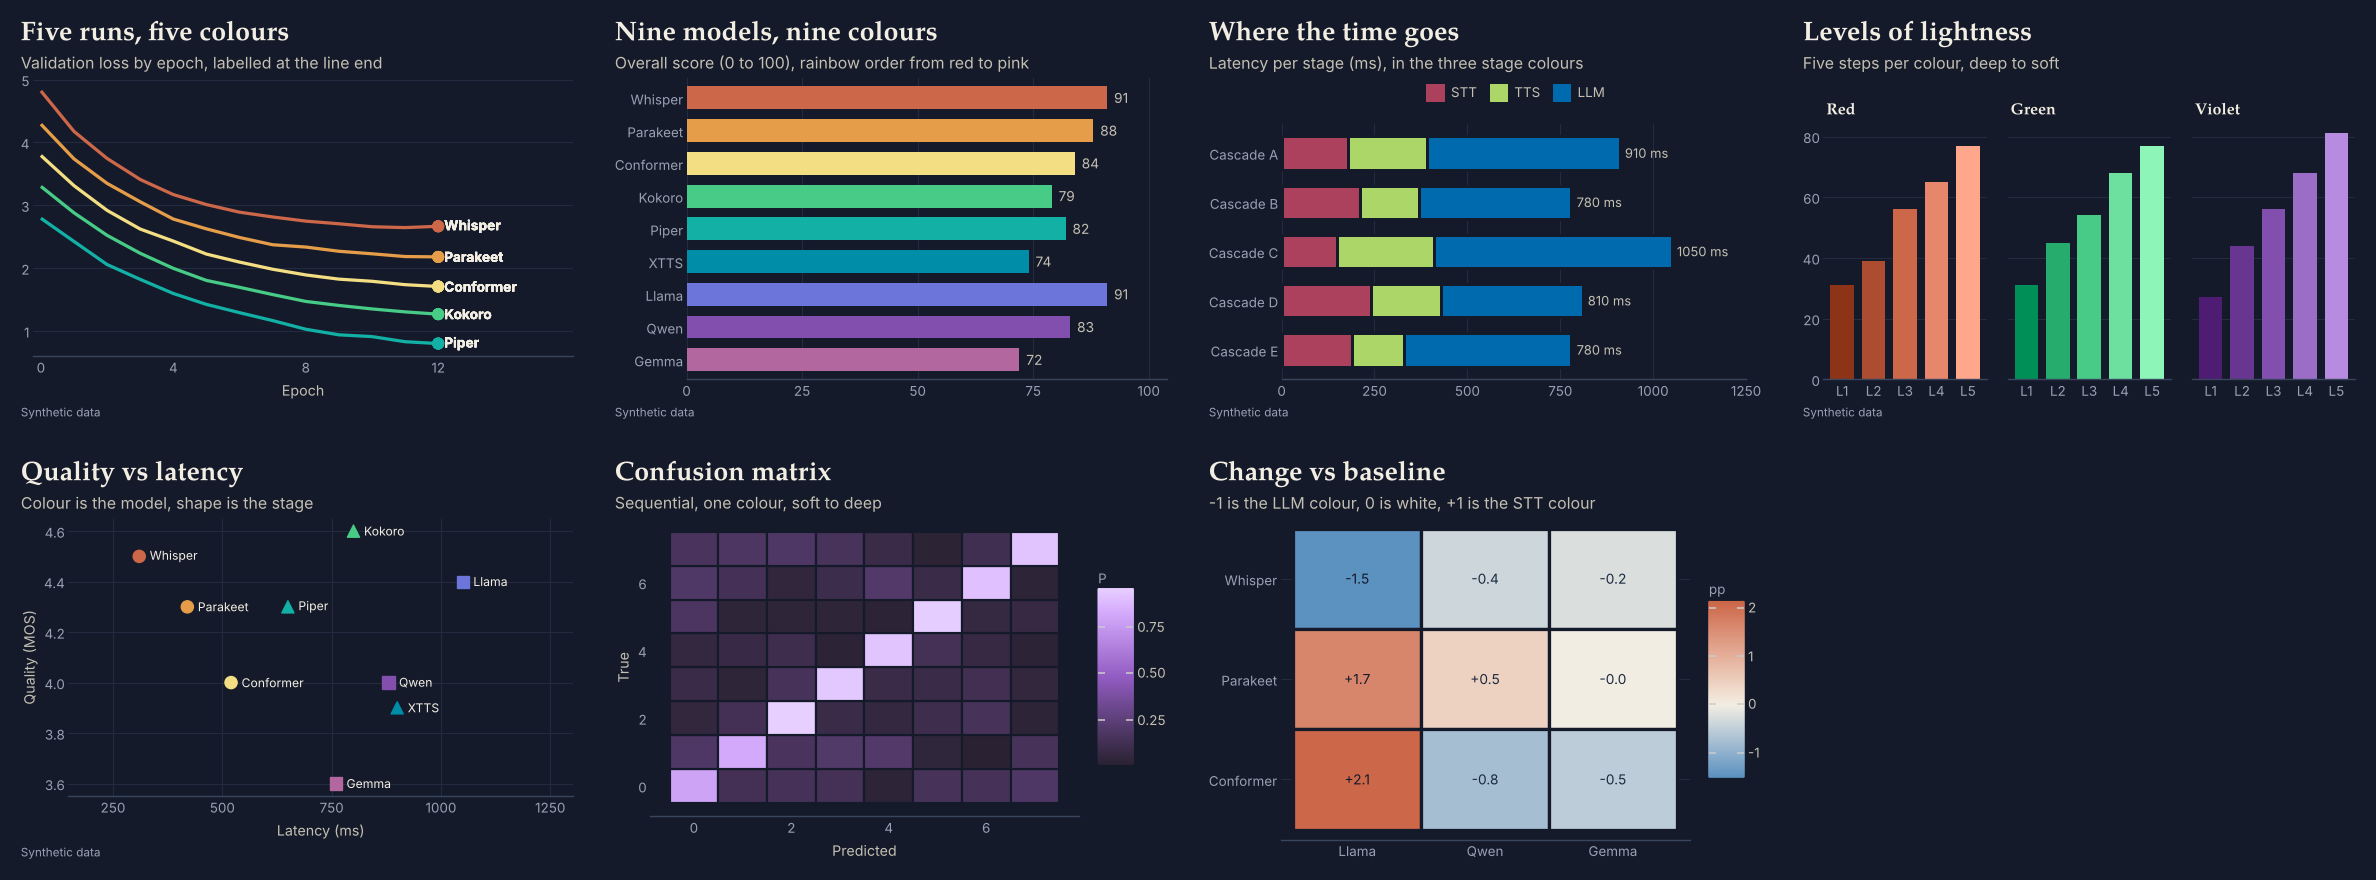
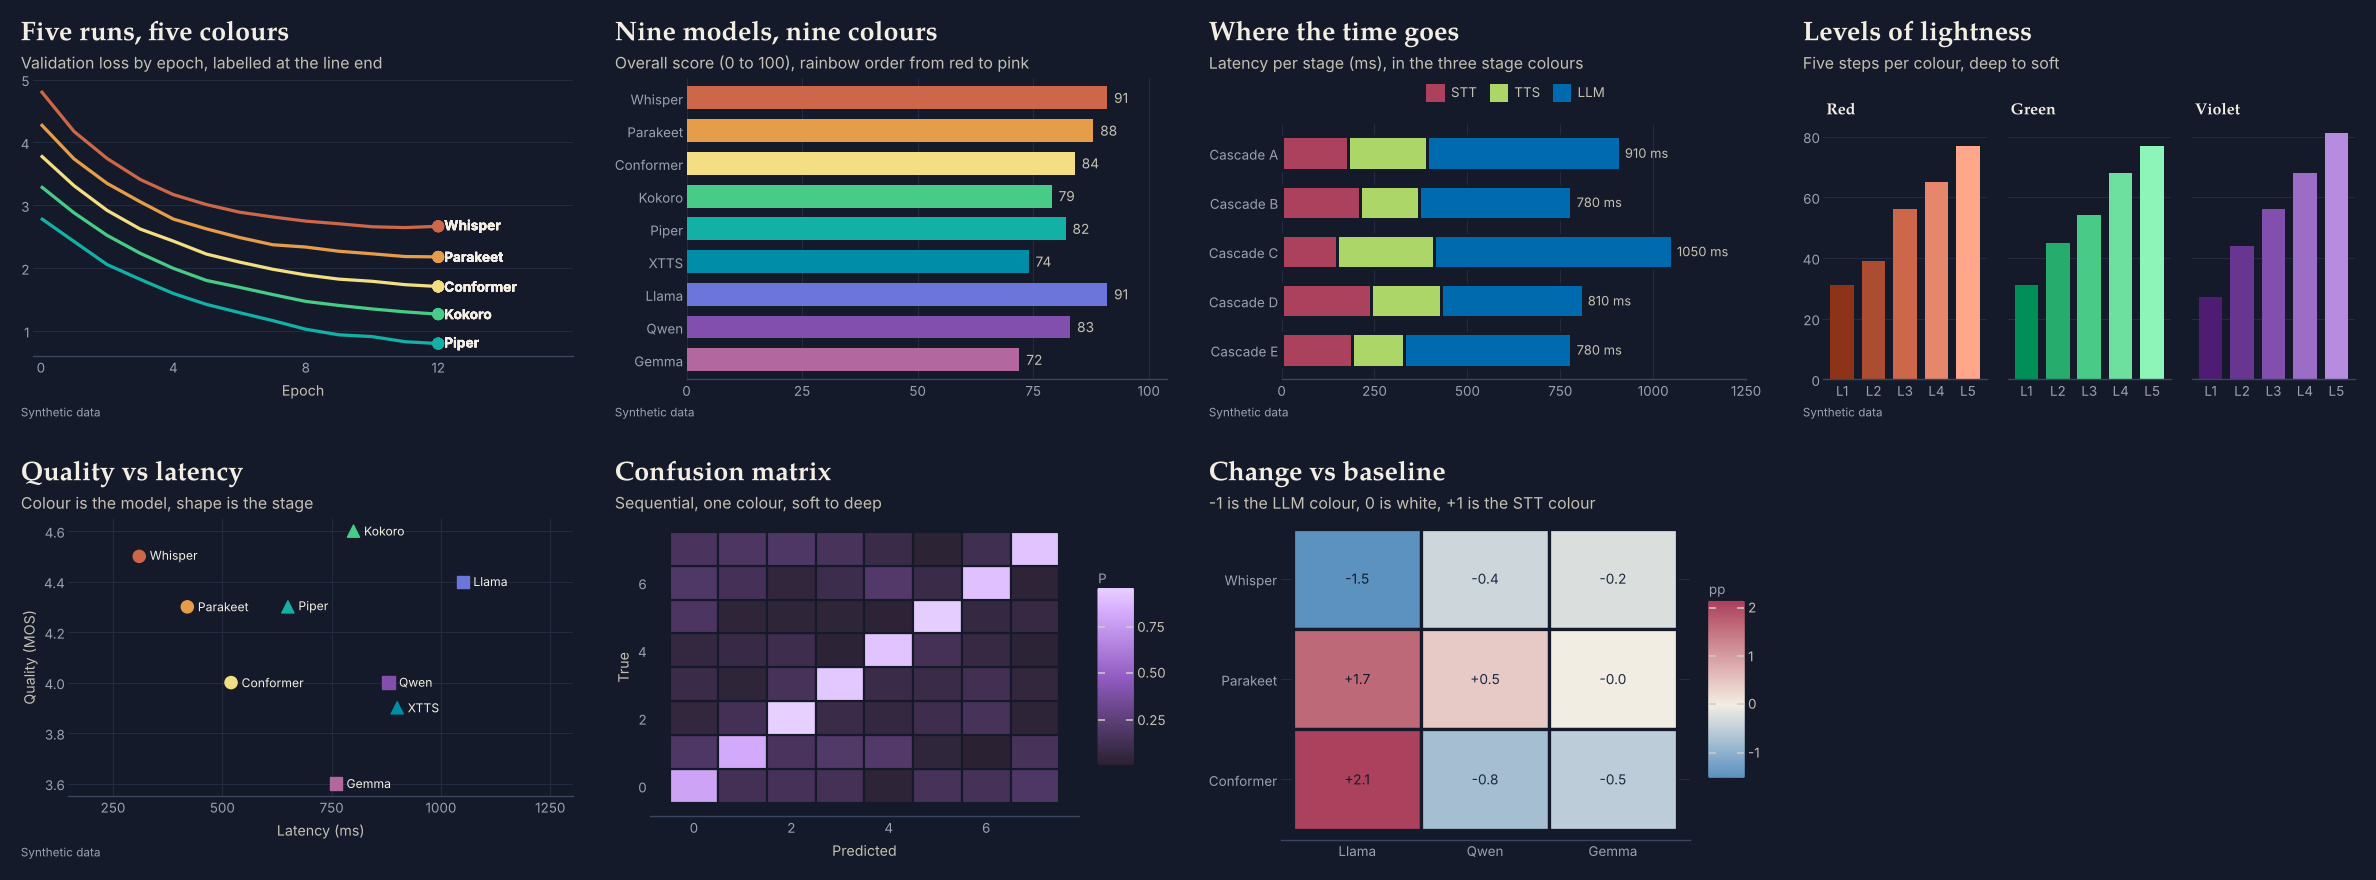
Add README example charts, fix diverging hot end to STT colour

Changed region(s): [[0.5295, 0.7057, 0.6229, 0.9511], [0.7163, 0.675, 0.7475, 0.7364]]

diff --git a/examples/readme_figs.py b/examples/readme_figs.py
@@ -1,0 +1,63 @@
+"""Small example figures for the README, in light and dark. python examples/readme_figs.py [outdir]"""
+import sys
+from pathlib import Path
+
+import numpy as np
+import pandas as pd
+from plotnine import *  # noqa: F401,F403
+from PIL import Image
+
+sys.path.insert(0, str(Path(__file__).resolve().parent))
+sys.argv = [sys.argv[0], "/tmp/_mega_unused"]  # mega.py reads argv for its own output folder
+import mega  # noqa: E402
+import roygbviz as rv  # noqa: E402
+
+out = Path(__file__).resolve().parent.parent / "assets" / "examples"
+out.mkdir(parents=True, exist_ok=True)
+W, H, DPI = 5.6, 3.5, 160
+
+
+def levels_fig():
+    names = ["STT", "teal", "violet"]
+    d = pd.DataFrame([(n, k, 1) for n in names for k in range(5)], columns=["colour", "level", "v"])
+    d["colour"] = pd.Categorical(d["colour"], names[::-1])
+    d["cell"] = d["colour"].astype(str) + d["level"].astype(str)
+    cols = {f"{n}{k}": c for n in names for k, c in enumerate(rv.levels(n, 5))}
+    return (ggplot(d, aes("level", "colour", fill="cell")) + geom_tile(colour=mega.S["N"]["bg"], size=3)
+            + scale_fill_manual(values=cols) + mega.noleg()
+            + scale_x_continuous(breaks=range(5), labels=["deep", "", "default", "", "soft"], expand=(0, 0))
+            + theme(panel_grid_major=element_blank(), axis_ticks=element_blank())
+            + labs(title="Levels", subtitle="Five steps per colour, default in the middle", x="", y=""))
+
+
+def div_fig():
+    rng = np.random.default_rng(5)
+    a = rng.normal(0, 1, (6, 6)); m = np.clip(np.round((a + a.T) / 2, 1), -1, 1); np.fill_diagonal(m, 1)
+    names = ["Whisper", "Parakeet", "Kokoro", "Piper", "Llama", "Qwen"]
+    d = pd.DataFrame([(names[i], names[j], m[i, j]) for i in range(6) for j in range(6)], columns=["x", "y", "v"])
+    d["x"] = pd.Categorical(d["x"], names); d["y"] = pd.Categorical(d["y"], names[::-1])
+    return (ggplot(d, aes("x", "y", fill="v")) + geom_tile(colour=mega.S["N"]["bg"], size=2)
+            + rv.scale_fill_roygbviz_div(limits=(-1, 1)) + theme(panel_grid_major=element_blank(), axis_text_x=element_text(rotation=35, ha="right"))
+            + labs(title="Diverging", subtitle="Cold (LLM colour), white, hot (STT colour)", x="", y="", fill=""))
+
+
+FIGS = {
+    "quickstart": mega.line, "stages": mega.stacked, "levels": levels_fig, "diverging": div_fig,
+    "shading": mega.st_density, "boxes": mega.st_box,
+}
+
+for mode in ("light", "dark"):
+    mega.S["P"] = rv.use(mode); mega.S["N"] = mega.S["P"].neutrals
+    for name, fn in FIGS.items():
+        fn().save(out / f"{name}_{mode}.png", width=W, height=H, dpi=DPI, verbose=False)
+    # sizes: two base sizes side by side
+    ims = []
+    for bs in (9, 14):
+        rv.use(mode, base_size=bs)
+        g = mega._base(f"Base size {bs}", "Text and strokes scale together", base_size=bs)
+        f = out / f"_s{bs}.png"; g.save(f, width=W / 1.3, height=H / 1.3, dpi=DPI, verbose=False); ims.append(Image.open(f))
+        f.unlink()
+    sheet = Image.new("RGB", (ims[0].width + ims[1].width, max(i.height for i in ims)), mega.S["N"]["bg"])
+    sheet.paste(ims[0], (0, 0)); sheet.paste(ims[1], (ims[0].width, 0)); sheet.save(out / f"sizes_{mode}.png")
+    rv.use(mode)
+print("done")

diff --git a/src/roygbviz/palettes.py b/src/roygbviz/palettes.py
@@ -169,12 +169,12 @@ class Palette:
         return out
 
     def diverging(self, n: int = 9) -> list[str]:
-        """Cold to hot: +1 is the default red, 0 is white, -1 is the LLM stage colour (deep blue), with a straight gradient between.
+        """Cold to hot: +1 is the STT stage colour (crimson), 0 is white, -1 is the LLM stage colour (deep blue), with a straight gradient between.
 
         Returned cold to hot (index 0 is -1, the last is +1). ``n`` is forced odd so the midpoint is exactly white.
         """
         n += (n + 1) % 2
-        cold, hot, mid = self.groups["LLM"], self.roles["red"], DIVERGING_MID[self.mode]
+        cold, hot, mid = self.groups["LLM"], self.groups["STT"], DIVERGING_MID[self.mode]
         out = []
         for i in range(n):
             u = (i - (n - 1) / 2) / ((n - 1) / 2)  # -1 (cold) .. 1 (hot)

diff --git a/tests/test_palettes.py b/tests/test_palettes.py
@@ -91,7 +91,7 @@ def test_diverging_runs_cold_to_hot(mode):
     from roygbviz.palettes import DIVERGING_MID
     p = rv.get_palette(mode)
     div = p.diverging(9)
-    assert div[0] == p.groups["LLM"] and div[-1] == p.roles["red"]  # -1 LLM blue, +1 red (default colours)
+    assert div[0] == p.groups["LLM"] and div[-1] == p.groups["STT"]  # -1 LLM colour, +1 STT colour
     assert div[4] == DIVERGING_MID[mode]                              # 0 is white
     L = [C.to_oklch(h)[0] for h in div]
     # lightness rises from the blue end to the white middle and falls to the red end

diff --git a/README.md b/README.md
@@ -21,6 +21,13 @@ Also, I just wanted it to look pretty. Cream paper, serif titles, hairline grid,
 
 ## Quick start
 
+<p align="center">
+<picture>
+  <source media="(prefers-color-scheme: dark)" srcset="https://raw.githubusercontent.com/KhaiShea/roygbviz/main/assets/examples/quickstart_dark.png">
+  <img src="https://raw.githubusercontent.com/KhaiShea/roygbviz/main/assets/examples/quickstart_light.png" alt="Line chart with each model in its own colour, labelled at the line ends" width="640">
+</picture>
+</p>
+
 ```bash
 pip install -e .          # from this folder
 ```
@@ -50,6 +57,13 @@ rv.use("light")           # or "dark"
 | Name lines at their ends | `rv.end_labels(...)` and `rv.room()` |
 
 ## Twelve colours from one rainbow
+
+<p align="center">
+<picture>
+  <source media="(prefers-color-scheme: dark)" srcset="https://raw.githubusercontent.com/KhaiShea/roygbviz/main/assets/examples/stages_dark.png">
+  <img src="https://raw.githubusercontent.com/KhaiShea/roygbviz/main/assets/examples/stages_light.png" alt="Stacked bars for STT, TTS and LLM in their stage colours" width="640">
+</picture>
+</p>
 
 I built these from Kate Morley's article [A 12-bit rainbow palette](https://iamkate.com/data/12-bit-rainbow/), which she made for National Grid: Live. It explains the problem better than I can, but the short version is this:
 
@@ -109,6 +123,13 @@ COL = rv.colour_map(["Whisper", "Llama", "Kokoro", "Other"])   # "Other" gets gr
 
 ## Levels of lightness
 
+<p align="center">
+<picture>
+  <source media="(prefers-color-scheme: dark)" srcset="https://raw.githubusercontent.com/KhaiShea/roygbviz/main/assets/examples/levels_dark.png">
+  <img src="https://raw.githubusercontent.com/KhaiShea/roygbviz/main/assets/examples/levels_light.png" alt="Five lightness levels for three colours" width="640">
+</picture>
+</p>
+
 Every one of the twelve comes in five levels, from deep to soft. The default colour is the middle one, in both light and dark. If you change your mind, `DEFAULT_LEVEL` in `palettes.py` moves it.
 
 ```python
@@ -121,11 +142,25 @@ Use levels for things within one model (different settings, say) or for stacked 
 
 ## Diverging (cold to hot)
 
+<p align="center">
+<picture>
+  <source media="(prefers-color-scheme: dark)" srcset="https://raw.githubusercontent.com/KhaiShea/roygbviz/main/assets/examples/diverging_dark.png">
+  <img src="https://raw.githubusercontent.com/KhaiShea/roygbviz/main/assets/examples/diverging_light.png" alt="Diverging heatmap from the LLM colour through white to the STT colour" width="640">
+</picture>
+</p>
+
 `rv.scale_fill_roygbviz_div()` is a straight gradient. **+1 is the STT colour (hot), 0 is white, and -1 is the LLM colour (cold).** The ends are the stage colours, so a diverging chart still feels like part of the same set. It centres on zero unless you pass `midpoint=`. In dark mode zero is a soft cream-white (`#F3EEE3`) so it doesn't glare.
 
 On the pale tiles use dark text for labels. On the strong ends use white (light mode) or navy (dark mode). The gallery shows this.
 
 ## Shading
+
+<p align="center">
+<picture>
+  <source media="(prefers-color-scheme: dark)" srcset="https://raw.githubusercontent.com/KhaiShea/roygbviz/main/assets/examples/shading_dark.png">
+  <img src="https://raw.githubusercontent.com/KhaiShea/roygbviz/main/assets/examples/shading_light.png" alt="Overlapping density curves with shaded fills and default-colour edges" width="640">
+</picture>
+</p>
 
 For fills (areas, bands, ribbons, bar and box bodies) I use `rv.shade(colour)`, which is one level lighter than the default colour. The line or outline keeps the default colour so the edges stay crisp. In dark mode "lighter" means brighter, which still looks like a soft fill against the navy.
 
@@ -137,9 +172,30 @@ ggplot(d, aes("x", "y")) + geom_area(fill=rv.shade("teal"), colour=rv.colour("te
 
 ## Sizes
 
+<p align="center">
+<picture>
+  <source media="(prefers-color-scheme: dark)" srcset="https://raw.githubusercontent.com/KhaiShea/roygbviz/main/assets/examples/sizes_dark.png">
+  <img src="https://raw.githubusercontent.com/KhaiShea/roygbviz/main/assets/examples/sizes_light.png" alt="The same chart at base size 9 and 14" width="640">
+</picture>
+</p>
+
 `base_size` sets the text size, and `rv.stroke(size)` scales line widths and marker sizes to match. So if you shrink a figure to fit a paper's column, the text and the lines shrink together and it still looks right.
 
 ## Mega test
+
+<p align="center">
+<picture>
+  <source media="(prefers-color-scheme: dark)" srcset="https://raw.githubusercontent.com/KhaiShea/roygbviz/main/assets/mega_core_dark.png">
+  <img src="https://raw.githubusercontent.com/KhaiShea/roygbviz/main/assets/mega_core_light.png" alt="Nine core chart types" width="760">
+</picture>
+</p>
+
+<p align="center">
+<picture>
+  <source media="(prefers-color-scheme: dark)" srcset="https://raw.githubusercontent.com/KhaiShea/roygbviz/main/assets/mega_stats_dark.png">
+  <img src="https://raw.githubusercontent.com/KhaiShea/roygbviz/main/assets/mega_stats_light.png" alt="Statistical chart types" width="760">
+</picture>
+</p>
 
 I wanted to know it holds up on more than line charts, so `python examples/mega.py assets` draws 45 charts in light and dark:
 
